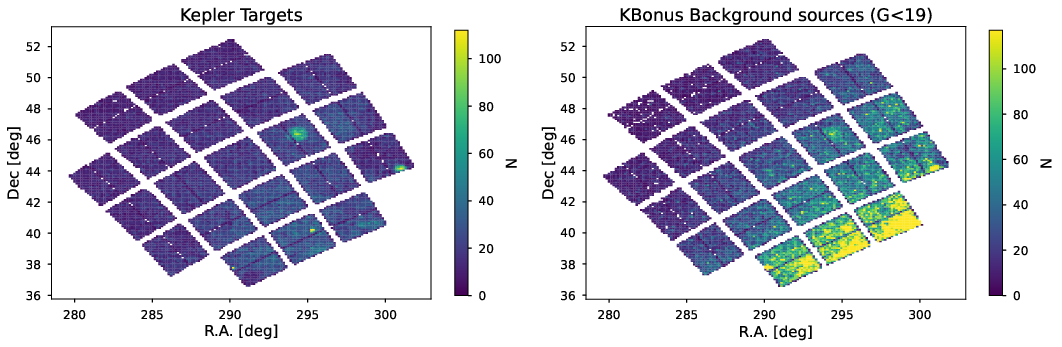
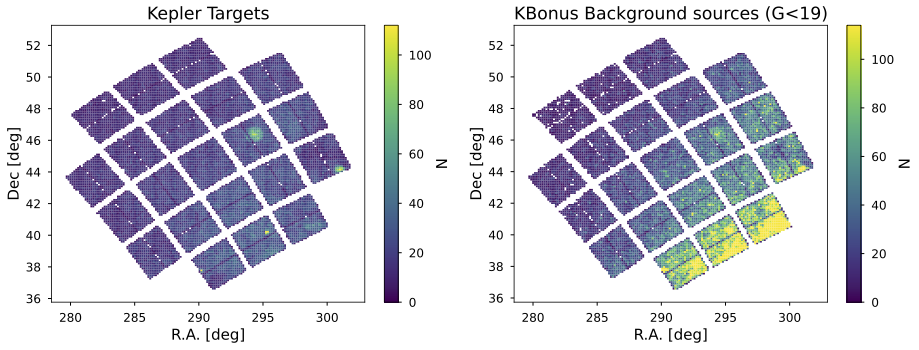
hlsp readme

diff --git a/hlsp_readme.md b/hlsp_readme.md
@@ -1,0 +1,199 @@
+README file for KBonus-BKG: Kepler Background PSF light curves
+MAST webpage: https://archive.stsci.edu/hlsp/kbonus-bkjg/
+Refer to this HLSP with DOI: https://dx.doi.org/10.17909/7jbr-w430
+
+
+
+README
+===================
+
+Contributor
+-----------
+* Jorge Martinez-Palomera  [BAERI/NASA Ames] (palomera@baeri.org)
+* Christina Hedges         [BAERI/NASA Ames]
+
+General Information
+-------------------
+NASA's *Kepler* primary mission observed about 116 deg2 in the sky for 3.5 consecutive years to discover Earth-like exoplanets.
+This mission recorded pixel cutouts, known as Target Pixel Files (TPFs), of over $200,000$ targets selected to maximize the scientific yield.
+The Kepler pipeline performed aperture photometry for these primary targets to create light curves.
+However, hundreds of thousands of background sources were recorded in the TPFs and have never been systematically analyzed.
+This work uses the Linearized Field Deblending (LFD) method, a Point Spread Function (PSF) photometry algorithm, to extract light curves.
+We use Gaia DR3 as input catalog to extract 606,900 light curves from long-cadence TPFs.
+406,548 are new light curves of background sources, while the rest are Kepler's targets.
+These light curves have comparable quality as those computed by the Kepler pipeline, with CDPP values $<100$ ppm for sources $G<16$.
+The light curve files are available as high-level science products at MAST.
+Files include PSF and aperture photometry, and extraction metrics.
+Additionally, we improve the background and PSF modeling in the LFD method.
+This new nearly unbiased catalog enables further studies in planet search, occurrence rates, and other time-domain studies.
+
+A full description of this dataset can be found in Martinez-Palomera et al. 2023 [2], as well as the Python library [`psfmachine`](https://github.com/SSDataLab/psfmachine) that was used to extract the light curves. An example of the parameter configuration and how `psfmachine` was used can be found in the GitHub repository [`KBonus`](https://github.com/jorgemarpa/KBonus).
+
+
+What is Being Released
+----------------------
+This is the v1.0 release of source light curves observed in Kepler's TPFs:
+
+* 606,900 PSF light curve files in FITS format. Each file contain concatenated time series all detectable quarters (primary extension), and multiple extensions with the per-quarter light curves.
+
+* **hlsp_kbonus-bkg_kepler_kepler_source-catalog_kepler_v1.0_cat.fits**: a FITS catalog containing the 606,900 Gaia DR3 objects with G<19 observed in the TPFs.
+
+* **hlsp_kbonus-bkg_kepler_kepler_kois-nns-catalog_kepler_v1.0_cat.fits**: a FITS catalog containing the Kepler Object of Interest (KOIs) and all the neibors around each KOI within 30 arcseconds.
+
+* **hlsp_kbonus-bkg_kepler_kois-nns_v1.0_lcf.tar.gz**: tarball files with all light curve files listed in the KOIs and neighbors catalog.
+
+* **hlsp_kbonus-bkg_kepler_kepler_mstars-catalog_kepler_v1.0_cat.fits**: a FITS catalog containing the M-stars as described in [2].
+
+* **hlsp_kbonus-bkg_kepler_mstars_v1.0_lcf.tar.gz**: tarball files with all light curve files listed in the M-dwarf catalog.
+
+* **hlsp_kbonus-bkg_kepler_kepler_wd-catalog_kepler_v1.0_cat.fits**: a FITS catalog containing the white dwarfs.
+
+* **hlsp_kbonus-bkg_kepler_wd_v1.0_lcf.tar.gz**: tarball files with all light curve files listed in the white dwarf catalog.
+
+* this "README" file
+
+The light curve files have names of the form:
+
+    hlsp kbonus-bkg_kepler_kepler_<source_id>_kepler_v1.0_lc.fits
+
+where `<source_id>` is the KIC value of the object or the Gaia DR3 source id when no KIC is available.
+
+
+
+How the Catalogs Were Prepared
+------------------------------
+The KBonus-BKG uses *Kepler*'s TPFs from all 17 observation quarters. The TPFs are available at MAST archive and correspond to small cutouts (typically 5x5 pixels) around the selected *Kepler* targets.
+This HLSP uses Gaia DR3 as input catalog to compile a catalog of 606,900 light curves. 406,548 correspond to **new** background sources. The rest are *Kepler* targets.
+A sky map of the observed sources is shown here:
+
+![sky_map](figures/kepler_fov_density.png)
+
+The color magnitude diagram of *Kepler* targets and new background sources follows:
+
+![cmd](figures/hr_diagrams_ratiosat.png)
+
+Object Detection and Photometry
+-------------------------------
+We used the Gaia DR3 catalog [4] as input to detect sources down to 19th magnitude in the G band.
+We perform PSF photometry using the Linearized Field Deblending method (LFD) [4] to compute PSF models from *Kepler*'s FFIs and evaluate it in the TPFs.
+This method includes background modeling, mean PSF photometry and corrected PSF photometry. The latter accounts for velocity aberration effects and other instrument systematics.
+The LFD method is implemented in the Python package *psfmachine*
+
+The CDPP values as a function of source magnitude:
+
+![sky_map](figures/cdpp_v_mag.png)
+
+
+Column Description for the Catalog and Light Curve Files
+-----------------------------------
+
+Description of the columns available in the LIGHTCURVE STITCHED extension:
+
+| Col | Field             | Format  | Units         | Description                                             |
+|-----|-------------------|---------|---------------|---------------------------------------------------------|
+| 1   | Time              | float64 | BJD - 2454833 | Time value in BKJD                                      |
+| 2   | Cadenceno         | int32   | -             | Cadence number                                          |
+| 3   | Flux              | float64 | e-/s          | PSF flux from stitched quarters                         |
+| 4   | Flux_err          | float64 | e-/s          | PSF flux error from stitched quarters                   |
+| 6   | SAP_flux          | float64 | e-/s          | SAP flux from stitched quarters                         |
+| 7   | SAP_flux_err      | float64 | e-/s          | SAP flux error from stitched quarters                   |
+| 8   | PSF_flat_flux     | float64 | e-/s          | PSF flux from stitched quarters after flattening        |
+| 9   | PSF_flat_flux_err | float64 | e-/s          | PSF flux error from stitched quarters after flattening  |
+| 10  | SAP_quality       | int32   | -             | Quality flag from the TPF                               |
+| 11  | Flatten_mask      | int32   | -             | Quality flag from the flattening process                |
+
+
+Description of the columns available in the LIGHTCURVE Q extensions:
+
+| Col | Field             | Format  | Units         | Description                                           |
+|-----|-------------------|---------|---------------|-------------------------------------------------------|
+| 1   | Time              | float64 | BJD - 2454833 | Time value in BKJD                                    |
+| 2   | Cadenceno         | int32   | -             | Cadence number                                        |
+| 3   | Flux              | float64 | e-/s          | Corrected PSF flux                                    |
+| 4   | Flux_err          | float64 | e-/s          | Corrected PSF flux error                              |
+| 5   | SAP_Flux          | float64 | e-/s          | SAP flux                                              |
+| 6   | SAP_Flux_err      | float64 | e-/s          | SAP flux error                                        |
+| 7   | PSF_flux_nova     | float64 | e-/s          | Mean PSF flux                                         |
+| 8   | PSF_flux_nova_err | float64 | e-/s          | Mean PSF flux error                                   |
+| 9   | SAP_BKG           | float64 | e-/s          | SAP background flux                                   |
+| 10  | Centroid_Column   | float64 | pix           | Centroid column value                                 |
+| 11  | Centroid_Row      | float64 | pix           | Centroid row value                                    |
+| 12  | Red_chi2          | float64 | -             | Reduced chi-squared value between PSF model and data  |
+| 13  | SAP_quality       | int32   | -             | Quality flag from the TPF                             |
+
+The main source catalog has the following fields:
+
+|Col | Field             | Format  | Units   | Description                                       |
+|----|-------------------|---------|---------|---------------------------------------------------|
+| 1  | gaia_designation  | String  | -       | Gaia designation number                           |
+| 2  | ra                | Float32 | deg     | Right Ascension                                   |
+| 3  | dec               | Float32 | deg     | Declination                                       |
+| 4  | sap_mean_flux     | Float32 | e-/s    | Mean of SAP flux                                  |
+| 5  | sap_mean_flux_err | Float32 | e-/s    | Mean of SAP flux error                            |      
+| 6  | psf_mean_flux     | Float32 | e-/s    | Mean of PSF flux                                  |
+| 7  | psf_mean_flux_err | Float32 | e-/s    | Mean of PSF flux error                            |
+| 8  | flfrcsap          | Float32 | -       | Minimum detected SAP flux fraction                |
+| 9  | crowdsap          | Float32 | -       | Minimum detected SAP crowding                     |
+| 10 | npixsap           | Float32 | -       | Minimum detected SAP number of pixels             |
+| 11 | psffrac           | Float32 | -       | Minimum detected PSF fraction                     |
+| 12 | pertrati          | Float32 | -       | Mean detected perturbed/mean PSF ratio            |
+| 13 | pertstd           | Float32 | -       | Minimum detected perturbed PSF standard deviation |
+| 14 | psf_avail         | String  | -       | String encoding PSF flux availability per quarter |
+| 15 | sap_avail         | String  | -       | String encoding SAP flux availability per quarter |
+| 16 | psf_fraction_flag | String  | -       | String encoding PSF fraction quality per quarter  |
+| 17 | phot_g_mean_mag   | Float32 | mag     | Gaia G band mean magnitude                        |
+| 18 | phot_bp_mean_mag  | Float32 | mag     | Gaia BP band mean magnitude                       |
+| 19 | phot_rp_mean_mag  | Float32 | mag     | Gaia RP band mean magnitude                       |
+| 20 | tpf_org           | Int32   | -       | TPF where sources was detected                    |
+| 21 | kic               | Int32   | -       | Kepler input catalog number                       |
+| 22 | kic_sep           | Float32 | arcsec  | Distance between KIC and Gaia DR3                 |
+| 23 | kepmag            | Float32 | mag     | Kepler magnitude                                  |
+| 24 | file_name         | String  | -       | FITS file name                                    |
+
+The KOIs and neighbors catalog has the following columns:
+
+|Col | Field             | Format  | Units   | Description                 |
+|----|-------------------|---------|---------|-----------------------------|
+| 1  | gaia_designation  | String  | -	     | Gaia designation number     |
+| 2  | ra                | Float32 | deg     | Right Ascension             |
+| 3  | dec               | Float32 | deg     | Declination                 |
+| 4  | kic               | Int32   | -       | Kepler input catalog number |
+| 5  | fname             | String  | -       | Light curve FITS file name  |
+| 6  | nn_koi            | Int32   | -       | Nearest KOI                 |
+| 7  | nn_dist           | Float32 | arcsec	 | Distance to nearest KOI     |
+
+The M-stars catalog has the following columns:
+
+|Col | Field             | Format  | Units   | Description                 |
+|----|-------------------|---------|---------|-----------------------------|
+| 1  | gaia_designation  | String  | -	     | Gaia designation number     |
+| 2  | ra                | Float32 | deg     | Right Ascension             |
+| 3  | dec               | Float32 | deg     | Declination                 |
+| 4  | kic               | Int32   | -       | Kepler input catalog number |
+| 5  | fname             | String  | -       | Light curve FITS file name  |
+
+The white dwarfs catalog has the following columns:
+
+|Col | Field             | Format  | Units   | Description                 |
+|----|-------------------|---------|---------|-----------------------------|
+| 1  | gaia_designation  | String  | -	     | Gaia designation number     |
+| 2  | ra                | Float32 | deg     | Right Ascension             |
+| 3  | dec               | Float32 | deg     | Declination                 |
+| 4  | kic               | Int32   | -       | Kepler input catalog number |
+| 5  | fname             | String  | -       | Light curve FITS file name  |
+| 6  | Pwd               | Float32 | -       | White dwarf probability     |
+
+Publications
+------------
+A description of NASA's Kepler mission is given in [1].
+A detailed description of the KBonus-BKG light curve extraction and data product characteristics are given in [2].
+The LFD method used to model Kepler's PRF profile is described in [3].
+The Gaia DR3 catalog description is given in [4].
+
+[1] [Van Cleve, J. E., *Kepler Data Characteristics Handbook*, ksci.rept, 2016.](https://ui.adsabs.harvard.edu/abs/2016ksci.rept....2V/abstract)
+
+[2] Martinez-Palomera, J., Hedges, C., Dotson, J., *Kepler Bonus: Light Curves of Kepler Background Sources*, submitted to AJ. 2023.
+
+[3] [Hedges, C., Luger, R., Martinez-Palomera, J., Dotson, J., and Barentsen, G., *Linearized Field Deblending: Point-spread Function Photometry for Impatient Astronomers*, The Astronomical Journal, vol. 162, no. 3, 2021.](https://ui.adsabs.harvard.edu/abs/2021AJ....162..107H/abstract)
+
+[4] [Gaia Collaboration, *Gaia Data Release 3: Summary of the content and survey properties*, Astronomy and Astrophysics, vol. 674, 2023](https://ui.adsabs.harvard.edu/abs/2023A%26A...674A...1G/abstract)
